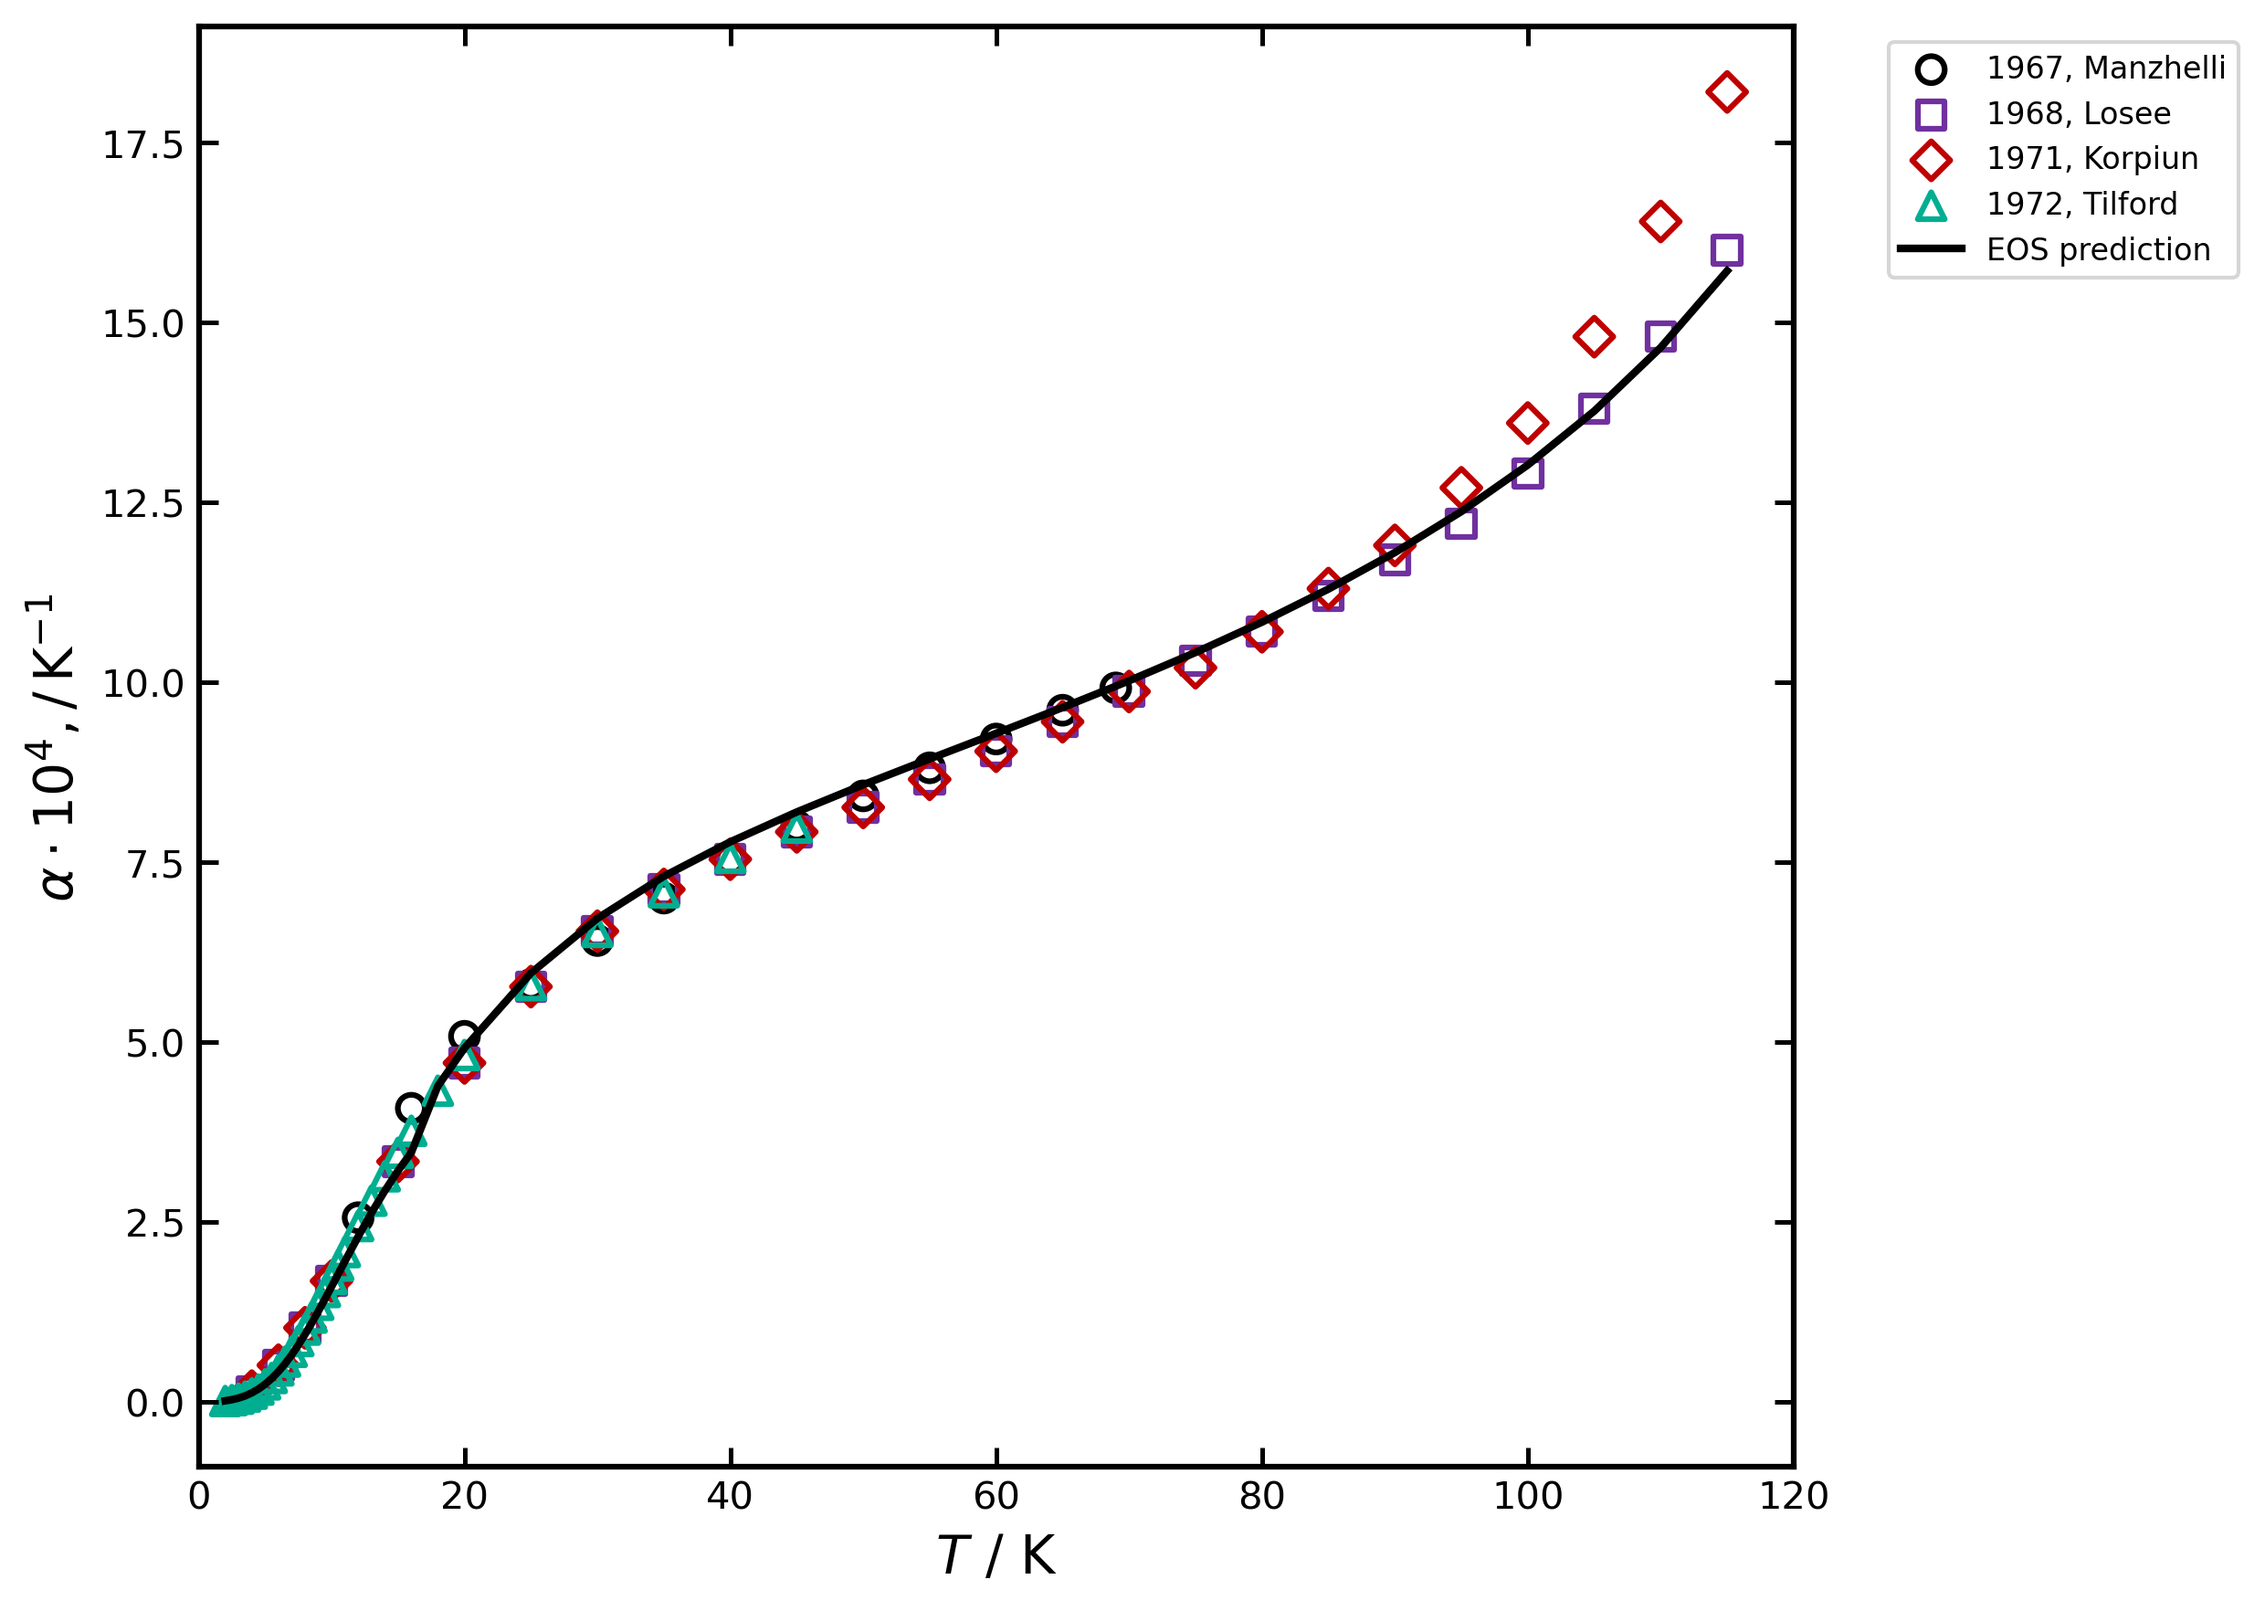
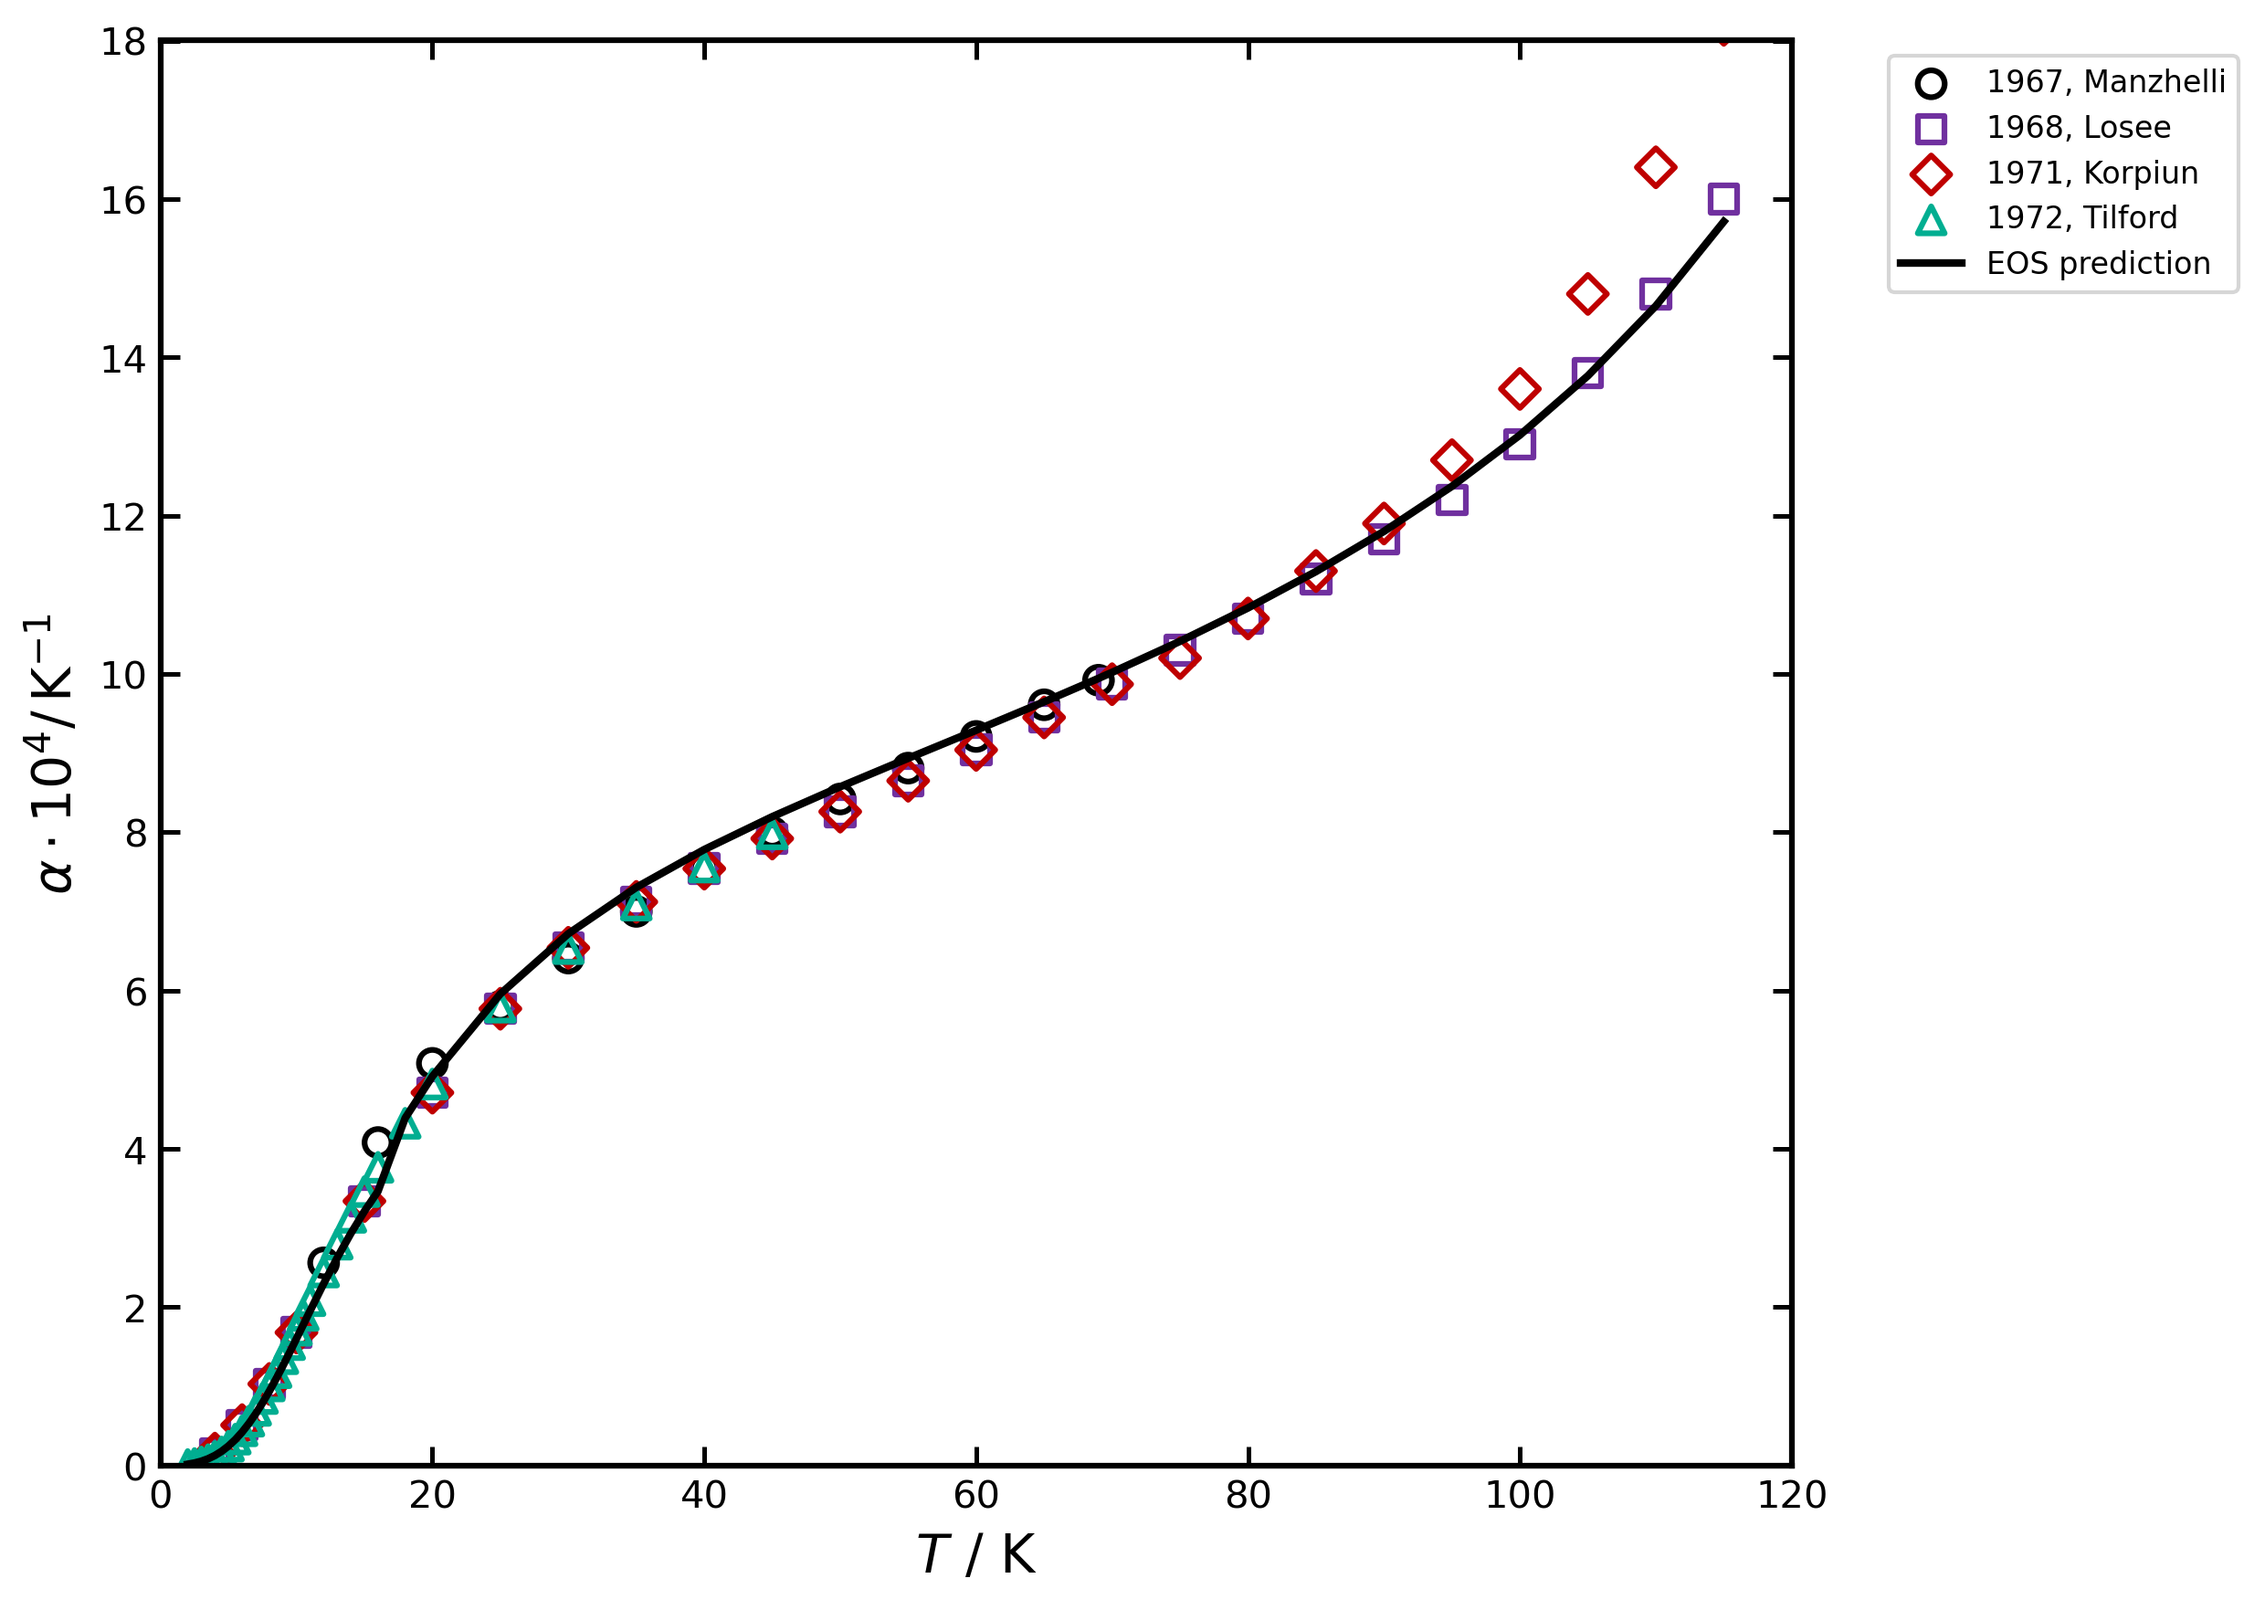
betaT krypton

diff --git a/src/fitting_helper.py b/src/fitting_helper.py
@@ -975,10 +975,10 @@ def plot_deviation(variable='Vm_melt'):
             gas_name='krypton',
             x_col='T',
             y_col='y_exp',
-            y_label=r'$\alpha \cdot 10^{4},/\,\mathrm{K^{-1}}$',
+            y_label=r'$\alpha \cdot 10^{4}/\,\mathrm{K^{-1}}$',
             title=None,
             xlim=(0, 120),
-            # ylim=(0, 0.1),
+            ylim=(0, 18),
             model_x=df_alpha_sub['T'],
             model_y=df_alpha_sub['y_model'],  # convert to 1e-4 K^-1
             logy=False,
@@ -998,6 +998,40 @@ def plot_deviation(variable='Vm_melt'):
             filename='krypton_sub_thermal_expansion_deviation',
             xlim=(0, 120),
             ylim=(-30, 20),
+            output_folder=IMG_OUTPUT_FOLDER,
+            custom_colors=CUSTOMCOLORS,
+            custom_markers=CUSTOMMARKERS
+        )
+    elif variable == 'BetaT_sub':
+        # # 3. Plot the variable
+        plot_thermo_variable(
+            data=df_BETA_T_sub,  # convert to KappaT in MPa
+            gas_name='krypton',
+            x_col='T',
+            y_col='y_exp',
+            y_label=r'$K_T\,/\,\mathrm{MPa}$',
+            title=None,
+            xlim=(0, 120),
+            ylim=(1000, 4000),
+            model_x=df_BETA_T_sub['T'],
+            model_y=df_BETA_T_sub['y_model'],  # convert to KappaT in MPa
+            logy=False,
+            filename='krypton_sub_isothermal_compressibility.png',
+            output_folder=IMG_OUTPUT_FOLDER,
+            custom_colors=CUSTOMCOLORS,
+            custom_markers=CUSTOMMARKERS
+        )
+        plot_variable_deviation(
+            data=df_BETA_T_sub,
+            gas_name='krypton',
+            x_col='T',
+            y_exp_col='y_exp',
+            y_model_col='y_model',
+            y_label=r'$100 \cdot (K_{T,\mathrm{exp}} - K_{T,\mathrm{calc}}) / K_{T,\mathrm{exp}}$',
+            title=None,
+            filename='krypton_sub_isothermal_compressibility_deviation',
+            xlim=(0, 120),
+            ylim=(-20, 20),
             output_folder=IMG_OUTPUT_FOLDER,
             custom_colors=CUSTOMCOLORS,
             custom_markers=CUSTOMMARKERS

diff --git a/src/fitting_krypton.py b/src/fitting_krypton.py
@@ -301,7 +301,7 @@ def main():
     
 
 if __name__ == "__main__":
-    plot_deviation(variable="alpha_sub")
+    plot_deviation(variable="BetaT_sub")
     # main()
     # plot_init()
     # RMS_AAD()
